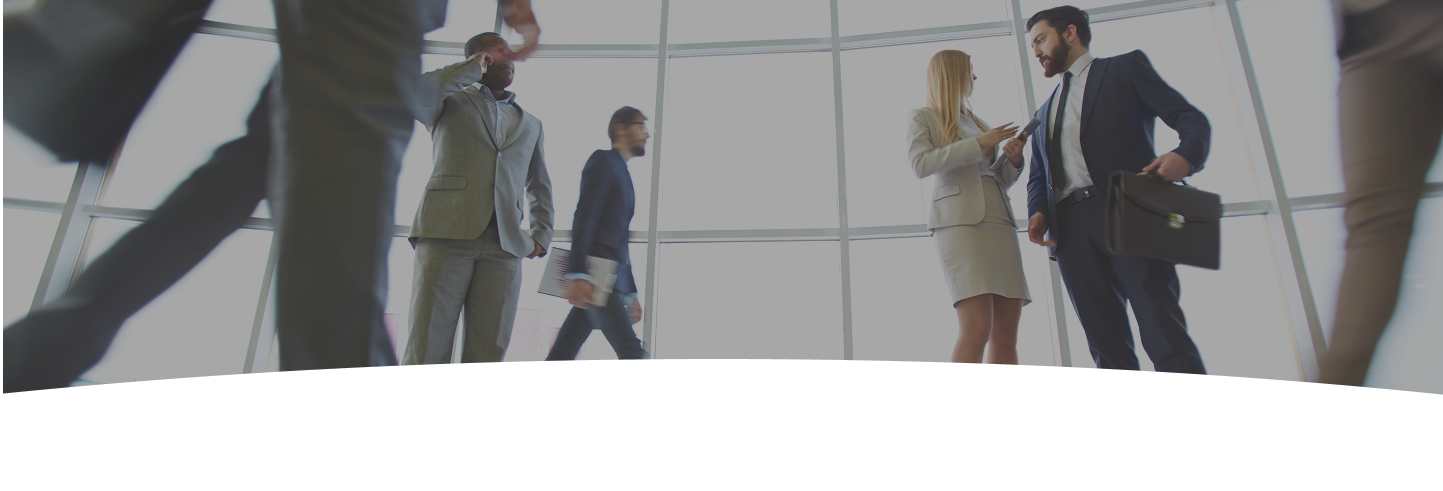
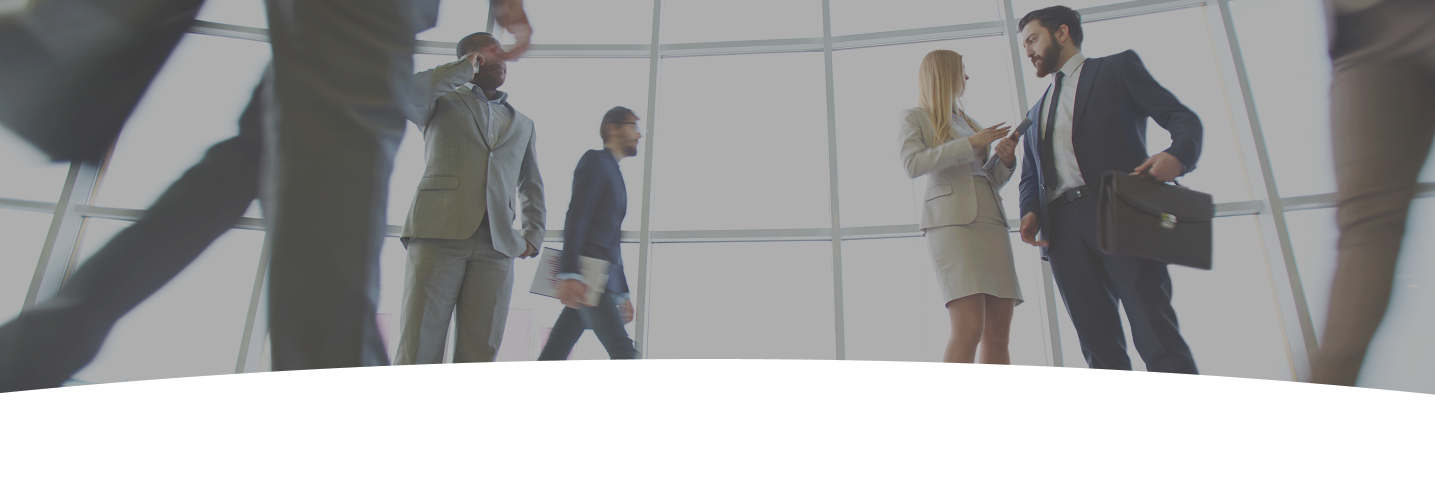
Circled button

diff --git a/resources/views/dashboard.blade.php b/resources/views/dashboard.blade.php
@@ -28,7 +28,7 @@
                         </div>
                         <!-- Arrow cont -->
                         <div class="absolute pr-6 top-[15.5em] left-1/2 transform -translate-x-1/2 -translate-y-1/2">
-                            <div class="w-[4.8rem] h-[4.3rem] rounded-full bg-orange flex items-center justify-center">
+                            <div class="w-[4.3rem] h-[4.3rem] rounded-full bg-orange flex items-center justify-center">
                             <svg xmlns="http://www.w3.org/2000/svg" width="35" height="35" viewBox="-1 0 25 24" class="fill-white_dull scale-x-[-1]">
                                 <path d="M13.025 1l-2.847 2.828 6.176 6.176h-16.354v3.992h16.354l-6.176 6.176 2.847 2.828 10.975-11z"/>
                             </svg>
@@ -48,7 +48,7 @@
                     </div>
                     <!-- Arrow cont -->
                         <div class="absolute ml-3 top-[15.5em] left-1/2 transform -translate-x-1/2 -translate-y-1/2">
-                            <div class="w-[4.8rem] h-[4.3rem] rounded-full bg-blue flex items-center justify-center">
+                            <div class="w-[4.3rem] h-[4.3rem] rounded-full bg-blue flex items-center justify-center">
                             <svg xmlns="http://www.w3.org/2000/svg" width="35" height="35" viewBox="-1 0 25 24" class="fill-white_dull">
                                 <path d="M13.025 1l-2.847 2.828 6.176 6.176h-16.354v3.992h16.354l-6.176 6.176 2.847 2.828 10.975-11z"/>
                             </svg>
